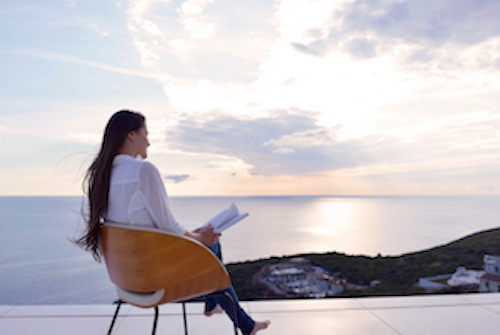
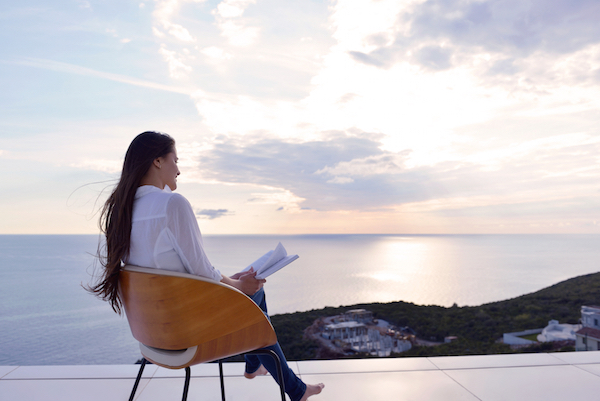
fixed typos and preview picture clarity

diff --git a/src/data/Articles.js b/src/data/Articles.js
@@ -2,7 +2,7 @@ import React from 'react';
 
 const ARTICLES = [
 
-{id: "16", title: <a href="/articles/16">Great Rest-pectations: 6 Ways to Maximize your Weekend"</a>, date: "September 15, 2017", category: "Wellness", photo: "/images/rest-pectations.jpg", description: <div><p>When I was in residency, I worked every third weekend without a compensated day off. This meant 12 days straight of 10-12 hour workdays every third week. My weekends were precious and I tried to optimize the free time I had. It’s only 2 days for most of us, but there is so much you can do that has a huge impact on your resilience and mental health. Here are 6 things I learned to keep in mind as I headed into a free weekend and prepared for the week ahead. </p><a href="/articles/16">[...]</a></div> ,post: 
+{id: "16", title: <a href="/articles/16">Great Rest-pectations: 6 Ways to Maximize your Weekend</a>, date: "September 15, 2017", category: "Wellness", photo: "/images/rest-pectations.jpg", description: <div><p>When I was in residency, I worked every third weekend without a compensated day off. This meant 12 days straight of 10-12 hour workdays every third week. My weekends were precious and I tried to optimize the free time I had. It’s only 2 days for most of us, but there is so much you can do that has a huge impact on your resilience and mental health. Here are 6 things I learned to keep in mind as I headed into a free weekend and prepared for the week ahead. </p><a href="/articles/16">[...]</a></div> ,post: 
 <div>
 <img src="/images/rest-pectations.jpg" alt="Great Rest-pectations" />
 <p>When I was in residency, I worked every third weekend without a compensated day off. This meant 12 days straight of 10-12 hour workdays every third week. When you work weekends, the ones that you don't are essential to mental survival. And now that I’m in a position without working weekends, I’m still not used to the idea of truly being able to turn my brain off work at my own discretion. Here are 6 things I learned to keep in mind as I headed into a free weekend and prepared for the week ahead.</p>
